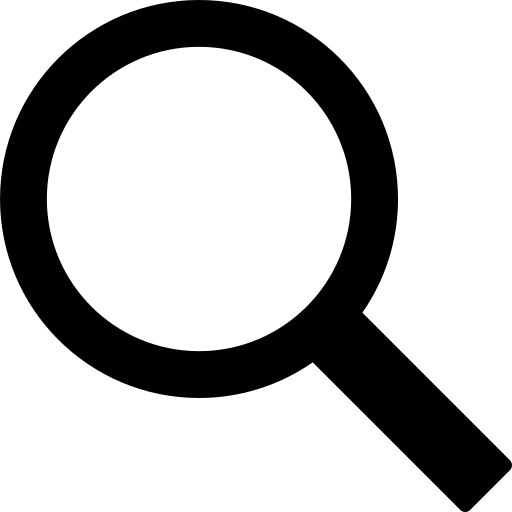
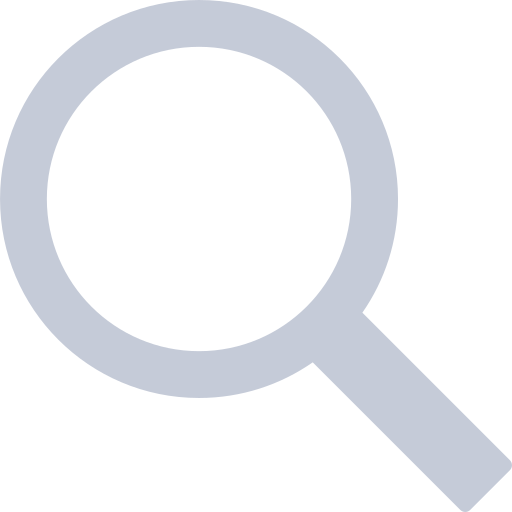
Ajout du dark mode(pas fini, probleme avec les item selected) La fenetre est plus belle apres resize Modification des icones: blanc

Changed region(s): [[0.0, 0.0, 1.0, 1.0]]

diff --git a/Projet/Vues/MainWindow.xaml b/Projet/Vues/MainWindow.xaml
@@ -5,37 +5,30 @@
         xmlns:mc="http://schemas.openxmlformats.org/markup-compatibility/2006"
         xmlns:local="clr-namespace:Vues"
         mc:Ignorable="d"
-        Title="MainWindow" Height="450" Width="800" MinHeight="480" MinWidth="650">
-    <Grid>
-        <Grid.ColumnDefinitions>
-            <ColumnDefinition/>
-            <ColumnDefinition Width="4*"/>
-        </Grid.ColumnDefinitions>
-        <Grid.RowDefinitions>
-            <RowDefinition/>
-            <RowDefinition Height="5*"/>
-            <RowDefinition/>
-        </Grid.RowDefinitions>
-        <Image Grid.Row="0" Grid.Column="1" Height="40" Width="40" Source="Icones\parametre.png" HorizontalAlignment="Right" 
-               Margin="0,20,20,0" MouseLeftButtonUp="OuvrirParametre" VerticalAlignment="Top"/>
-        <Grid Grid.Row="0" Grid.Column="0" Margin="10,0,0,0">
+        Title="BibliGames" Height="450" Width="800" MinHeight="200" MinWidth="250">
+    <DockPanel Style="{StaticResource BlackTheme}">
+        <Grid DockPanel.Dock="Top">
             <Grid.ColumnDefinitions>
-                <ColumnDefinition/>
-                <ColumnDefinition Width="5*"/>
+                <ColumnDefinition />
+                <ColumnDefinition Width="Auto"/>
             </Grid.ColumnDefinitions>
-            <Grid.RowDefinitions>
-                <RowDefinition/>
-                <RowDefinition/>
-            </Grid.RowDefinitions>
-            <Image Grid.Column="0" Grid.Row="1" Source="Icones\loupe.png"/>
-            <TextBox Text="Rechercher" GotFocus="ChampRechEntre"
-                     LostFocus="ChampRechQuitter" Grid.Row="1" Grid.Column="1"
-                     FontSize="20" VerticalAlignment="Center"/>
+            <StackPanel Margin="10,0,0,0" Grid.Column="0" Orientation="Horizontal" >
+                <Image Margin="0,0,5,0" Height="35" Width="35" Source="Icones\loupe.png"/>
+                <TextBox Background="{StaticResource BackgroundColorDarkTheme}" BorderThickness="0,0,0,2"
+                         Text="Rechercher" GotFocus="ChampRechEntre" LostFocus="ChampRechQuitter" FontSize="20"
+                         VerticalAlignment="Center" Foreground="{StaticResource TextColorDarkTheme}"/>
+            </StackPanel>
+            <Image Grid.Column="1" Height="40" Width="40" Source="Icones\parametre.png"
+               Margin="5,5,5,5" MouseLeftButtonUp="OuvrirParametre" VerticalAlignment="Top"/>
         </Grid>
-        <windowParts:MasterDetail Grid.Row="1" Grid.ColumnSpan="2"/>
-        <Button Grid.Row="3" Grid.Column="0" Height="30" Width="100"
-                HorizontalAlignment="Left" Click="AjoutJeu" Margin="20,0,0,0">
-            Ajouter un jeu
+        <Button DockPanel.Dock="Bottom" Height="30" Background="{StaticResource BackgroundColorDarkTheme}"
+                HorizontalAlignment="Left" Click="AjoutJeu" Margin="20,5,0,5" BorderThickness="0">
+            <StackPanel Orientation="Horizontal">
+                <Image Source="/Icones/plus.png"/>
+                <TextBlock Text="Ajouter un Jeu" VerticalAlignment="Center"
+                           Margin="0,0,5,0" Foreground="{StaticResource TextColorDarkTheme}"/>
+            </StackPanel>
         </Button>
-    </Grid>
+        <windowParts:MasterDetail/>
+    </DockPanel>
 </Window>

diff --git a/Projet/Vues/User Controls/VignetteJeu.xaml b/Projet/Vues/User Controls/VignetteJeu.xaml
@@ -7,12 +7,13 @@
              xmlns:SymbolStore="clr-namespace:System.Diagnostics.SymbolStore;assembly=System.Diagnostics.StackTrace"
              mc:Ignorable="d" 
              d:DesignHeight="450" d:DesignWidth="800">
-    <Grid>
+    <Grid Style="{StaticResource BlackTheme}">
         <Grid.ColumnDefinitions>
             <ColumnDefinition Width="2*"/>
             <ColumnDefinition Width="8*"/>
         </Grid.ColumnDefinitions>
         <Image Height="35" Width="35" Source="../icones/loupe.png"/>
-        <TextBlock  Grid.Column="1" Text="Un_nom_de_jeu" HorizontalAlignment="Center" VerticalAlignment="Center"/>
+        <TextBlock  Grid.Column="1" Text="Un_nom_de_jeu" HorizontalAlignment="Center"
+                    Foreground="{StaticResource TextColorDarkTheme}" VerticalAlignment="Center"/>
     </Grid>
 </UserControl>

diff --git a/Projet/Vues/User Controls/LuncherUC.xaml b/Projet/Vues/User Controls/LuncherUC.xaml
@@ -6,9 +6,9 @@
              xmlns:local="clr-namespace:Vues.User_Controls"
              mc:Ignorable="d" 
              d:DesignHeight="450" d:DesignWidth="800">
-    <StackPanel  PreviewMouseWheel="UCMouseWheelEvent">
-    <TextBlock Text="Steam"/>
-        <TreeView BorderThickness="0">
+    <StackPanel Style="{StaticResource BlackTheme}" PreviewMouseWheel="UCMouseWheelEvent">
+        <TextBlock Text="Steam" Foreground="{StaticResource TextColorDarkTheme}"/>
+        <TreeView BorderThickness="0" Background="#24282F">
             <local:VignetteJeu />
             <local:VignetteJeu />
             <local:VignetteJeu />

diff --git a/Projet/Vues/App.xaml b/Projet/Vues/App.xaml
@@ -4,6 +4,10 @@
              xmlns:local="clr-namespace:Vues"
              StartupUri="MainWindow.xaml">
     <Application.Resources>
-         
+        <SolidColorBrush x:Key="BackgroundColorDarkTheme">#24282F</SolidColorBrush>
+        <SolidColorBrush x:Key="TextColorDarkTheme">#C5CBD8</SolidColorBrush>
+        <Style TargetType="Panel" x:Key="BlackTheme">
+            <Setter Property="Background" Value="{StaticResource BackgroundColorDarkTheme}"/>
+        </Style>
     </Application.Resources>
 </Application>

diff --git a/Projet/Vues/windowParts/MasterDetail.xaml b/Projet/Vues/windowParts/MasterDetail.xaml
@@ -7,7 +7,8 @@
              mc:Ignorable="d" 
              d:DesignHeight="450" d:DesignWidth="800">
     <DockPanel>
-        <ListView MinWidth="150" MaxWidth="200">
+        <ListView MinWidth="150" MaxWidth="200" Background="#24282F"
+                  BorderThickness="0">
             <ListViewItem>
                 <User_Controls:LuncherUC />
             </ListViewItem>
